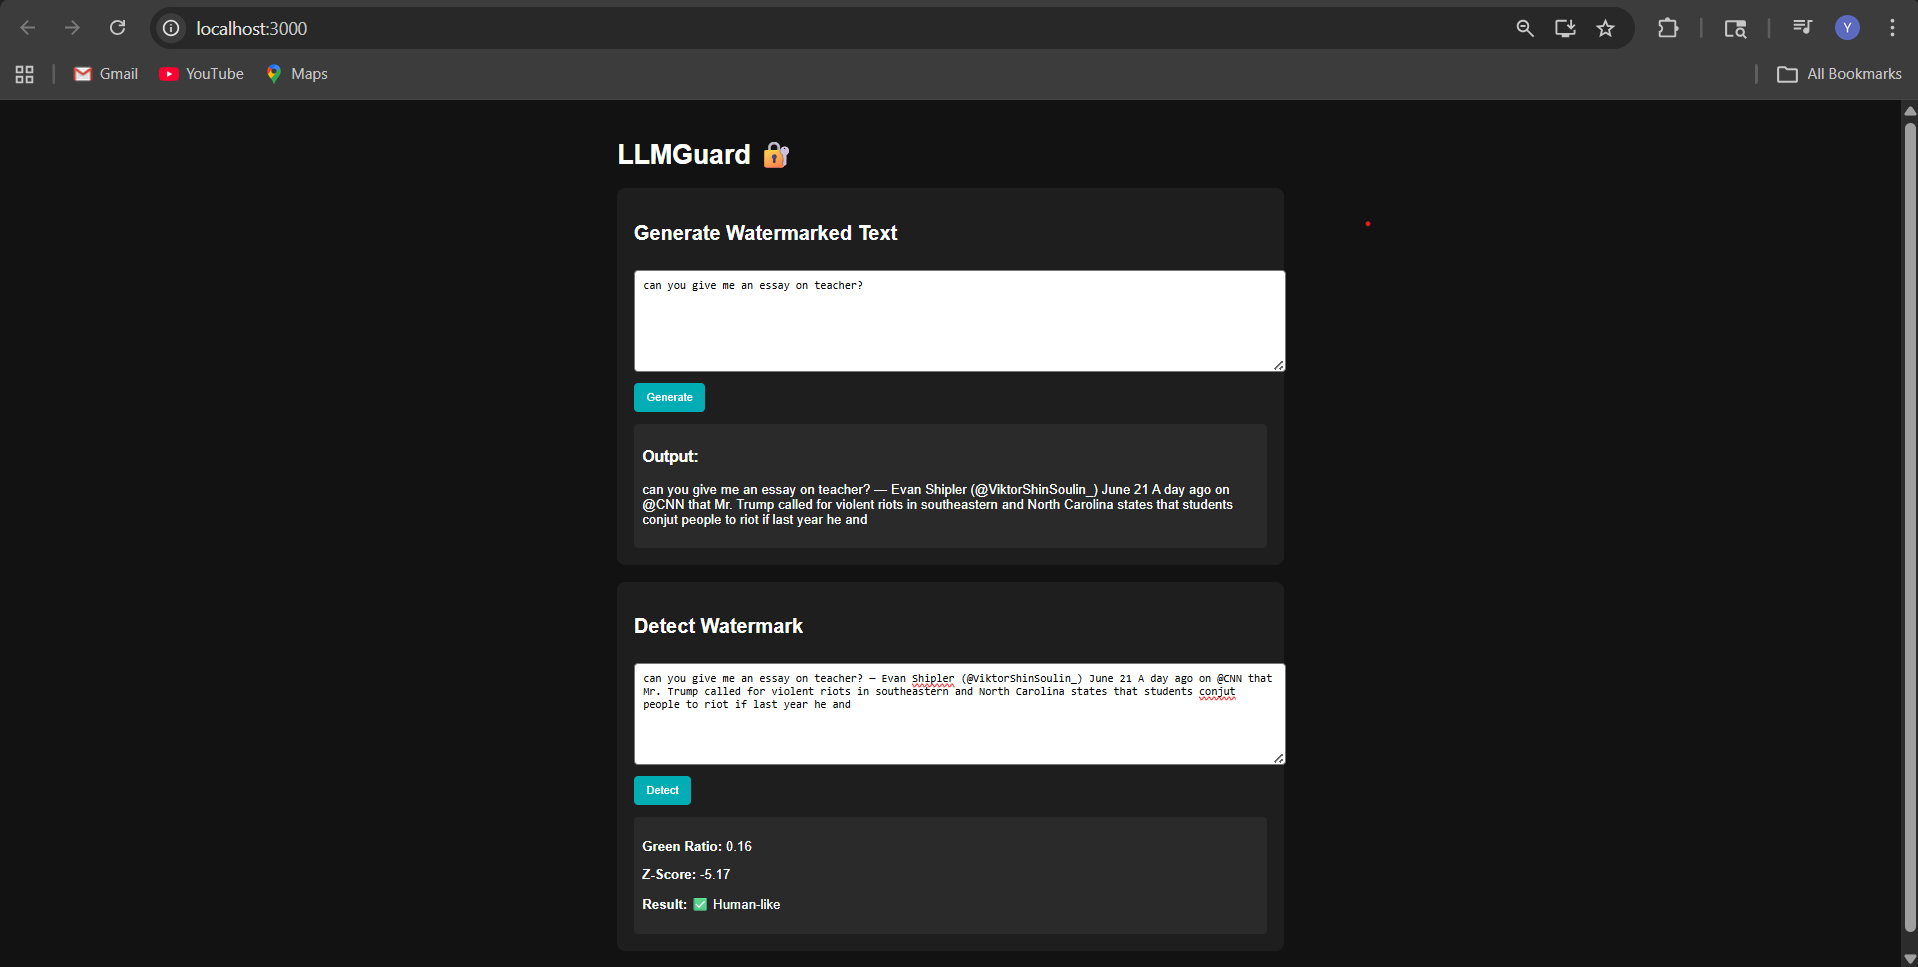
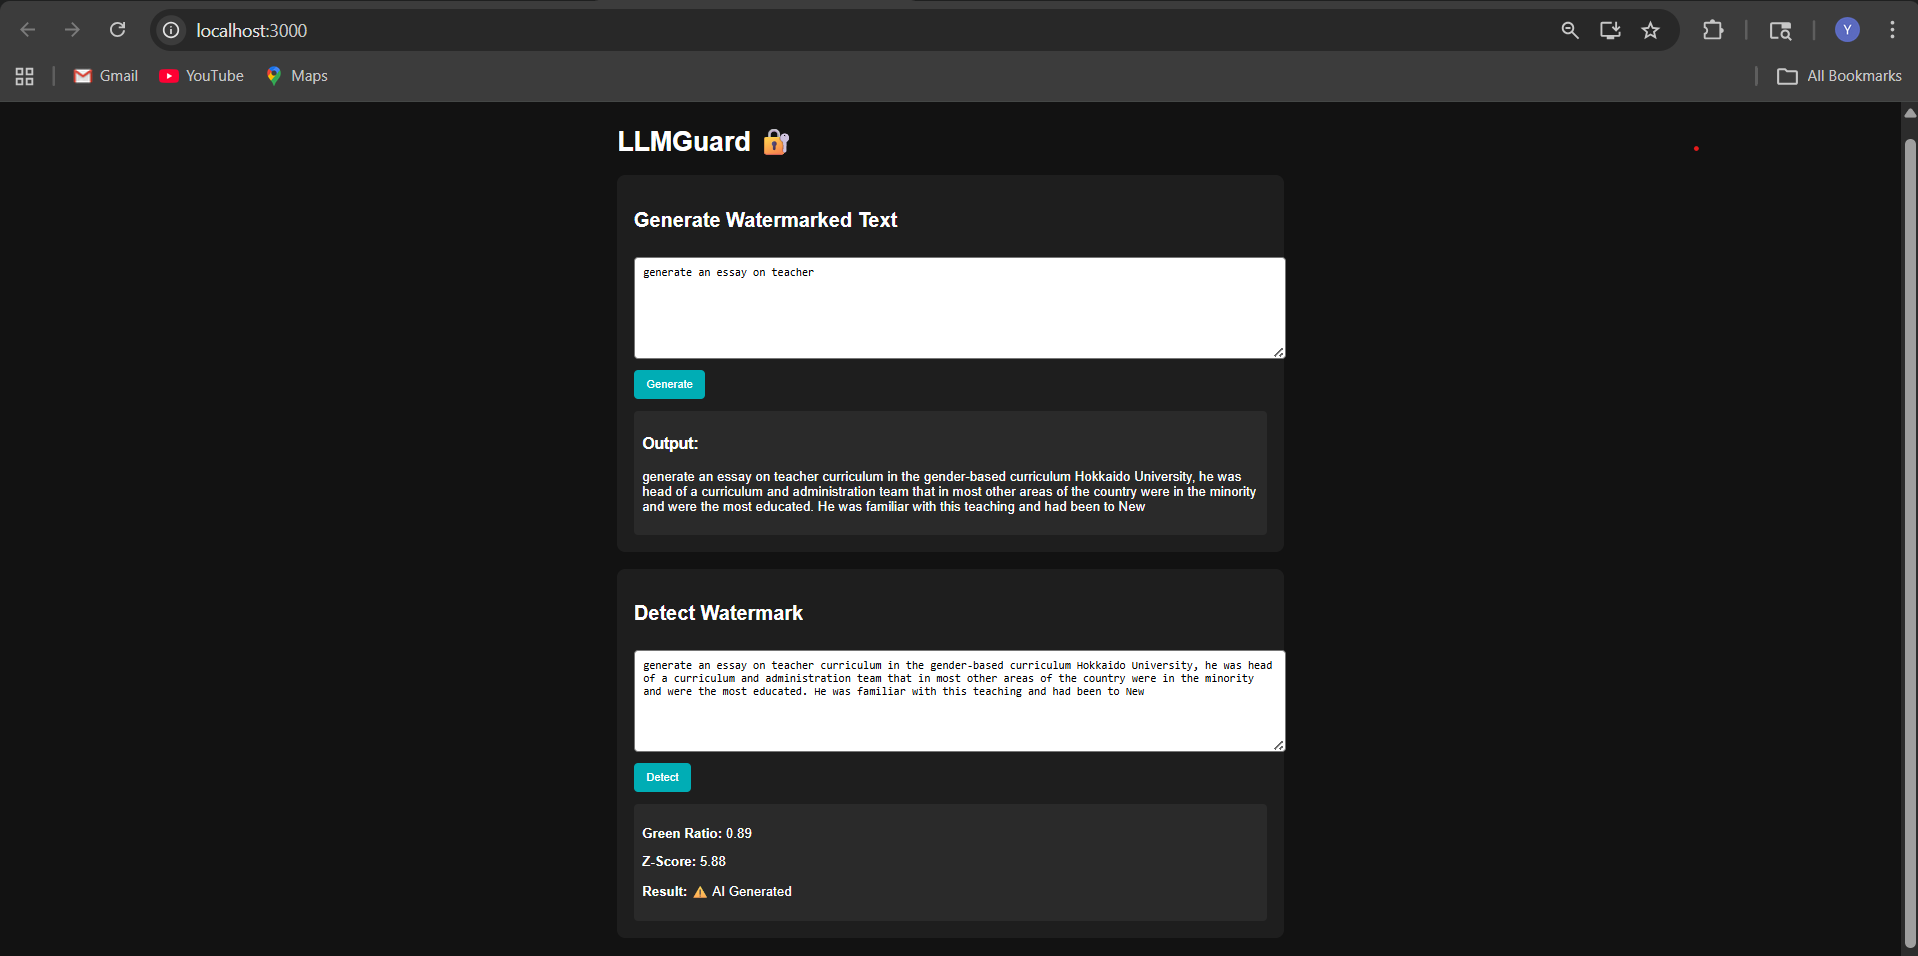
Increase LLM accuracy by implementing improved watermarking algorithm

diff --git a/backend/detector.py b/backend/detector.py
@@ -1,19 +1,50 @@
 import numpy as np
+import hashlib
 
-def detect_watermark(token_ids, secret_key, vocab_size):
+
+def detect_watermark(token_ids, secret_key, vocab_size, z_threshold=3.0):
+    """
+    Detect whether text contains a watermark by computing a Z-Score
+    on the proportion of 'green' tokens.
+
+    Uses the same SHA-256 hashing as watermark.py to ensure the green token
+    partition is identical. Classification uses a statistical Z-Score threshold
+    instead of a naive ratio cutoff, providing:
+    - Lower false positives on short texts.
+    - Lower false negatives on long texts.
+
+    Args:
+        token_ids: list of integer token IDs from the text.
+        secret_key: the secret key used during watermark generation.
+        vocab_size: vocabulary size of the model.
+        z_threshold: Z-Score threshold for classification (default 3.0).
+
+    Returns:
+        dict with green_ratio, z_score, and is_watermarked.
+    """
+    if len(token_ids) == 0:
+        return {
+            "green_ratio": 0.0,
+            "z_score": 0.0,
+            "is_watermarked": False
+        }
+
     green_count = 0
 
     for token in token_ids:
-        if hash((token, secret_key)) % 2 == 0:
+        h = hashlib.sha256(f"{token}-{secret_key}".encode()).hexdigest()
+        if int(h, 16) % 2 == 0:
             green_count += 1
 
-    ratio = green_count / len(token_ids)
+    n = len(token_ids)
+    ratio = green_count / n
 
-    # Expected ~0.5, watermark → higher
-    z_score = (ratio - 0.5) / (0.5 / np.sqrt(len(token_ids)))
+    # Under null hypothesis (no watermark), green ratio ~ 0.5
+    # Standard deviation = 0.5 / sqrt(n)
+    z_score = float((ratio - 0.5) / (0.5 / np.sqrt(n)))
 
     return {
-        "green_ratio": ratio,
-        "z_score": z_score,
-        "is_watermarked": ratio > 0.6
+        "green_ratio": float(round(ratio, 4)),
+        "z_score": float(round(z_score, 4)),
+        "is_watermarked": bool(z_score > z_threshold)
     }

diff --git a/backend/generator.py b/backend/generator.py
@@ -3,10 +3,12 @@ import torch
 import numpy as np
 from watermark import get_green_tokens, apply_watermark
 
+
 class WatermarkedGenerator:
     def __init__(self, secret_key="secret123"):
         self.tokenizer = GPT2Tokenizer.from_pretrained("gpt2")
         self.model = GPT2LMHeadModel.from_pretrained("gpt2")
+        self.model.eval()  # Set to evaluation mode
         self.secret_key = secret_key
 
         self.vocab_size = self.model.config.vocab_size
@@ -15,18 +17,19 @@ class WatermarkedGenerator:
     def generate(self, prompt, max_length=50):
         input_ids = self.tokenizer.encode(prompt, return_tensors="pt")
 
-        for _ in range(max_length):
-            outputs = self.model(input_ids)
-            logits = outputs.logits[0, -1].detach().numpy()
+        with torch.no_grad():  # Disable gradient computation for inference
+            for _ in range(max_length):
+                outputs = self.model(input_ids)
+                logits = outputs.logits[0, -1].numpy().copy()
 
-            # Apply watermark
-            logits = apply_watermark(logits, self.green_tokens)
+                # Apply additive watermark bias to green tokens
+                logits = apply_watermark(logits, self.green_tokens)
 
-            probs = torch.softmax(torch.tensor(logits), dim=0).numpy()
-            next_token = np.random.choice(len(probs), p=probs)
+                probs = torch.softmax(torch.tensor(logits), dim=0).numpy()
+                next_token = np.random.choice(len(probs), p=probs)
 
-            input_ids = torch.cat(
-                [input_ids, torch.tensor([[next_token]])], dim=1
-            )
+                input_ids = torch.cat(
+                    [input_ids, torch.tensor([[next_token]])], dim=1
+                )
 
-        return self.tokenizer.decode(input_ids[0])
+        return self.tokenizer.decode(input_ids[0], skip_special_tokens=True)

diff --git a/backend/watermark.py b/backend/watermark.py
@@ -1,15 +1,37 @@
 import numpy as np
+import hashlib
+
 
 def get_green_tokens(vocab_size, secret_key):
+    """
+    Deterministically partition the vocabulary into 'green' and 'red' tokens
+    using SHA-256 hashing. This ensures the green list is identical across
+    server restarts and different Python processes.
+    """
     green_tokens = set()
     for i in range(vocab_size):
-        if hash((i, secret_key)) % 2 == 0:
+        h = hashlib.sha256(f"{i}-{secret_key}".encode()).hexdigest()
+        if int(h, 16) % 2 == 0:
             green_tokens.add(i)
     return green_tokens
 
 
-def apply_watermark(logits, green_tokens, strength=1.5):
-    # Increase probability of green tokens
+def apply_watermark(logits, green_tokens, delta=2.5):
+    """
+    Apply watermark by ADDING a constant bias (delta) to green token logits.
+
+    Using additive bias instead of multiplicative ensures:
+    - Tokens with negative logits are correctly boosted (not suppressed).
+    - The watermark strength is uniform across all green tokens.
+
+    Args:
+        logits: numpy array of raw logit scores from the model.
+        green_tokens: set of token IDs classified as 'green'.
+        delta: additive bias strength (default 2.5).
+
+    Returns:
+        Modified logits array with watermark applied.
+    """
     for token_id in green_tokens:
-        logits[token_id] *= strength
+        logits[token_id] += delta
     return logits

diff --git a/backend/main.py b/backend/main.py
@@ -13,8 +13,8 @@ print(generated_text)
 print("\n--- Detecting Watermark ---\n")
 tokens = text_to_tokens(generated_text)
 
-result = detect_watermark(tokens, "yash123", 50257)
+result = detect_watermark(tokens, "yash123", generator.vocab_size)
 
-print(f"Green Ratio: {result['green_ratio']:.2f}")
-print(f"Z-Score: {result['z_score']:.2f}")
+print(f"Green Ratio: {result['green_ratio']:.4f}")
+print(f"Z-Score:     {result['z_score']:.4f}")
 print(f"Watermarked: {result['is_watermarked']}")
